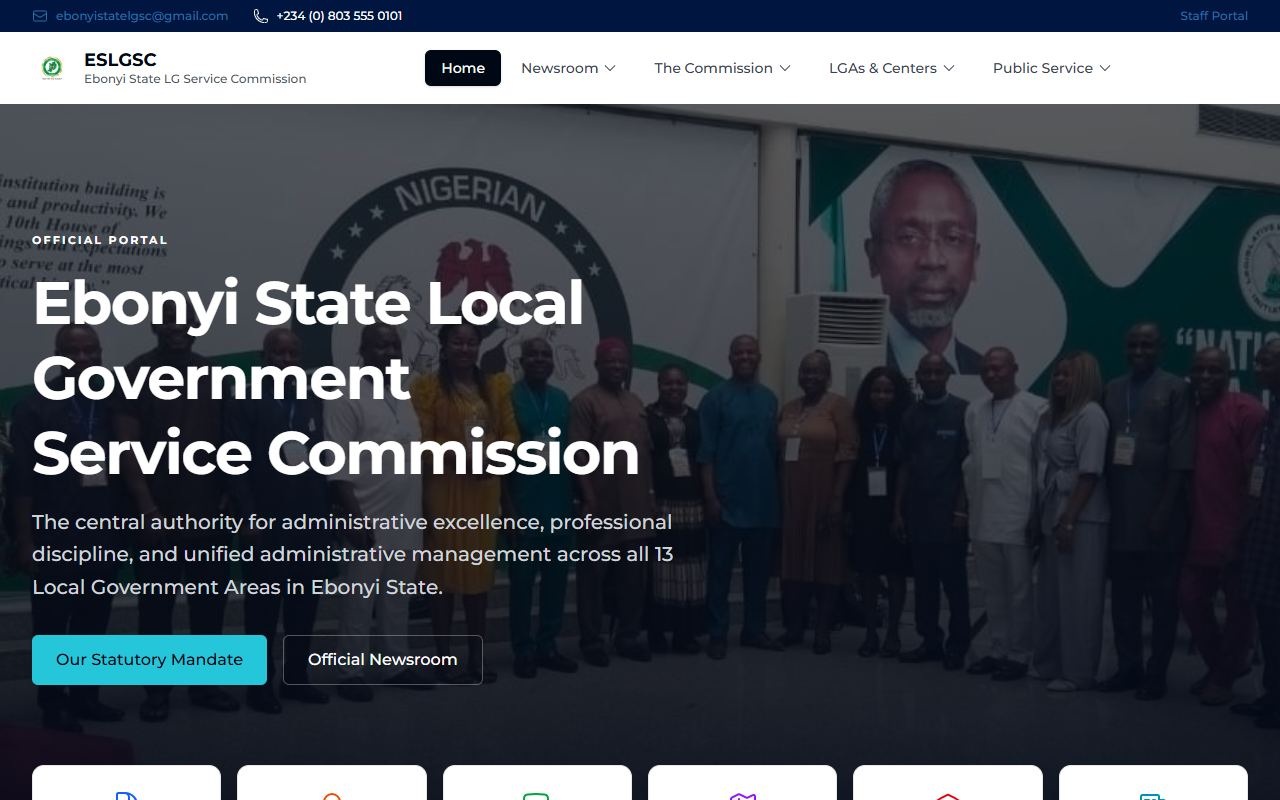
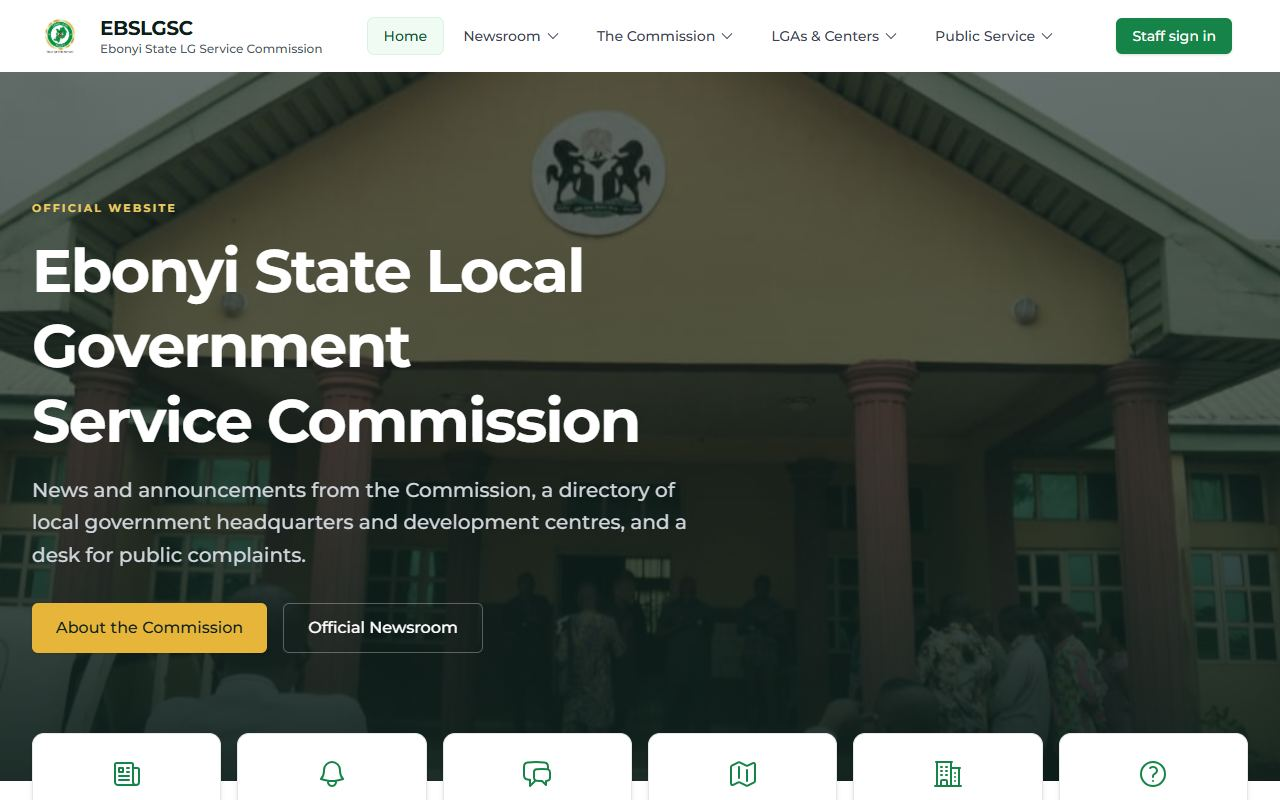
Refresh ESLGSC and IoT screenshots

diff --git a/data/entries.ts b/data/entries.ts
@@ -207,7 +207,7 @@ const meta: Record<string, Meta> = {
     tag: "Client work",
     tier: "feature",
     summary: "State commission portal with a role based dashboard",
-    shot: { src: "/shots/eslgsc.jpg", alt: "The Ebonyi State Local Government Service Commission portal home page, showing the commission name over a group photograph." },
+    shot: { src: "/shots/eslgsc.jpg", alt: "The Ebonyi State Local Government Service Commission portal home page: a green themed site with the commission name over a photograph of its building, and a staff sign in button." },
   },
   "004": {
     short: "Cartly",
@@ -241,7 +241,7 @@ const meta: Record<string, Meta> = {
     tag: "Final year project",
     tier: "compact",
     summary: "Live video and motion alerts from an ESP32 camera",
-    shot: { src: "/shots/iot.jpg", alt: "The surveillance dashboard for the IoT security system, showing a video panel waiting for signal beside an evidence log and settings." },
+    shot: { src: "/shots/iot.jpg", alt: "The CamWatch dashboard for the ESP32-CAM security system: a live feed panel waiting for signal beside evidence snapshots, a monitoring window setting and a sync button." },
   },
   "009": {
     short: "Hash lock",
